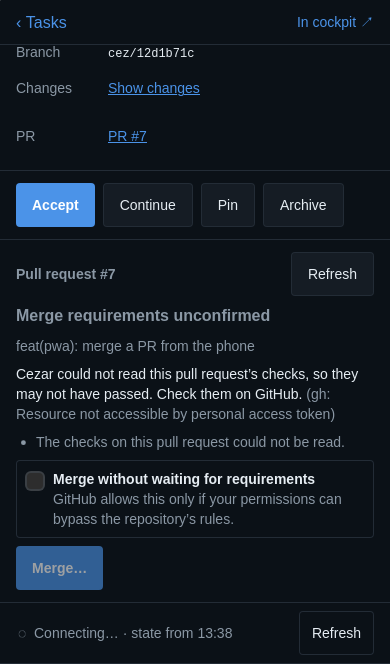
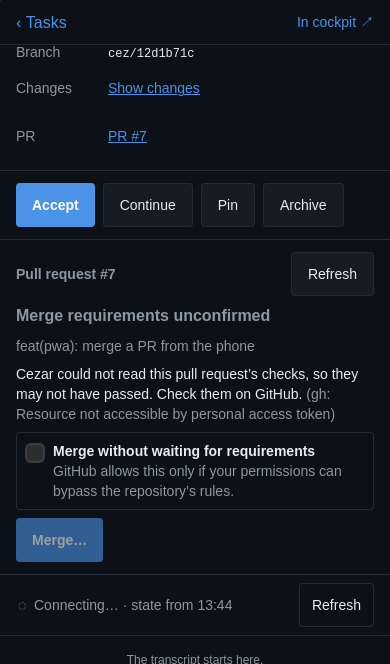
fix(pwa): don't repeat checks-unknown under the unread-checks line (#99)
With checksTier none the server also sends a checks-unknown blocker saying
the same thing; drop it from the listed blockers, as upstream GithubMergeBox
does. Align the fixture with the server's real message, assert no duplicate,
and refresh the unread-checks screenshots.

Changed region(s): [[0.0308, 0.6325, 0.8923, 0.9639], [0.0, 0.9036, 1.0, 1.0], [0.8, 0.9036, 0.9846, 0.9639]]

diff --git a/apps/pwa/src/domain/merge.ts b/apps/pwa/src/domain/merge.ts
@@ -49,7 +49,10 @@ export interface MergeView {
   checksTier: ChecksTier
   /** Why the tier degraded, verbatim; only kept when it did. */
   checksReason?: string
-  /** The server's reasons, in its order, verbatim (FR-032). */
+  /**
+   * The server's reasons, in its order, verbatim (FR-032). With `checksTier: 'none'` its
+   * `checks-unknown` is dropped: the checks line already says so, with the reason (as upstream).
+   */
   blockers: string[]
   methods: GithubMergeMethod[]
   defaultMethod: GithubMergeMethod | null
@@ -141,7 +144,9 @@ export function mergeView(raw: unknown): MergeView | null {
   const methods = Array.isArray(raw.methods) ? raw.methods.filter(isMethod) : []
   const defaultMethod = isMethod(raw.defaultMethod) && methods.includes(raw.defaultMethod) ? raw.defaultMethod : null
   const blockers = Array.isArray(raw.blockers)
-    ? raw.blockers.flatMap((blocker) => (isRecord(blocker) && typeof blocker.message === 'string' ? [blocker.message] : []))
+    ? raw.blockers.flatMap((blocker) =>
+        isRecord(blocker) && typeof blocker.message === 'string' && !(tier === 'none' && blocker.code === 'checks-unknown') ? [blocker.message] : [],
+      )
     : []
   const open = state === 'open'
   return {

diff --git a/apps/pwa/src/domain/merge.test.ts b/apps/pwa/src/domain/merge.test.ts
@@ -160,6 +160,17 @@ describe('checks tier (#99)', () => {
     expect(view({ checks: [], checksTier: 'none' })).toMatchObject({ headline: 'unknown', canMerge: true, canOverride: false })
     expect(view({ checks: [], checksTier: 'none', canMerge: false, canOverride: true })).toMatchObject({ canMerge: false, canOverride: true })
   })
+
+  it.each([
+    ['none: checks-unknown is not repeated under the checks line', 'none', ['A required review is missing.']],
+    ['detailed: every blocker, verbatim', 'detailed', ['This token cannot read the checks on this pull request.', 'A required review is missing.']],
+  ] as const)('%s', (_name, tier, expected) => {
+    const blockers = [
+      { code: 'checks-unknown', message: 'This token cannot read the checks on this pull request.' },
+      { code: 'reviews', message: 'A required review is missing.' },
+    ]
+    expect(view({ checks: [], checksTier: tier, canMerge: false, blockers })?.blockers).toEqual(expected)
+  })
 })
 
 describe('mergeGate — can merge, and the reason it cannot', () => {

diff --git a/apps/pwa/src/features/run/RunScreen.merge.test.tsx b/apps/pwa/src/features/run/RunScreen.merge.test.tsx
@@ -202,6 +202,8 @@ describe('the merge panel', () => {
     const line = box.getByText(t.checksUnread, { exact: false })
     expect(line).toHaveTextContent(t.checksTierReason(checksNoneFixture.mergeState.checksReason))
     expect(box.queryByText(t.noChecks)).toBeNull()
+    // The server's own `checks-unknown` blocker says the same thing; it is not shown twice.
+    expect(box.queryByText(checksNoneFixture.mergeState.blockers[0]!.message)).toBeNull()
     // canOverride: the bypass stays the server's to grant, exactly as with readable checks.
     expect(box.getByRole('button', { name: t.mergeButton })).toBeDisabled()
     expect(box.getByRole('checkbox', { name: new RegExp(t.override) })).toBeInTheDocument()

diff --git a/docs/CEZAR_API.md b/docs/CEZAR_API.md
@@ -267,7 +267,7 @@ Action on `permission.requested`: the answering mechanism is to be confirmed in 
 - **We offer a merge exactly when the server would accept it** (`mergeGate()`): `canMerge`, or `canOverride` after ticking "Merge without waiting for requirements" (then the body has `overrideRules: true`) — like `GithubMergeBox` in the cockpit (`web/src/routes/github/github.tsx`). On this host a private repo does not show branch protection rules (`required: null`, `reviewDecision: unknown`), so an open PR usually has `eligibility: unknown` and `canMerge: false` — without the override it could not be merged from either the cockpit or the phone.
 - The merge is behind a confirmation with the PR number and title and the target branch (brief R03); the method is chosen there from `methods` (default `defaultMethod`). The body carries `expectedHeadSha` = `headSha` from the state shown: the server rejects a push in the meantime (`stale-head`) instead of merging unseen commits.
 - **Never optimistically.** After every attempt (success, refusal, timeout) the state is read afresh with `refresh=1` and that is what is shown; we also invalidate `['run', …]`, the history and `['runs-index']`. 20 s timeout, no retries (the merge may have gone through). The refusal verbatim (FR-032). Draft → ready conversion, files, reviews and comments stay on GitHub (N06).
-- **How much of the checks were read (`checksTier`, 0.12.0, #99)** — `checksSummary()` in `domain/merge.ts`, mirroring `GithubMergeBox`. Absent or unknown → `detailed` (a pre-0.12 answer renders as before). `detailed`: "N of M checks passing", or "No checks reported." for an empty list. `aggregate` (a fine-grained PAT cannot read `CheckRun`s): the one row, named `All checks` upstream, is GitHub's rolled-up state, so the line says "Only the combined state of the checks could be read, not each check: <state>." and never "1 of 1". `aggregate` with **no** row is the rollup answering "this head has no CI" (`fetchMergeChecks`), so it reads "No checks reported.". `none`: "Cezar could not read this pull request's checks…", never "No checks reported."; `checksReason` follows verbatim in brackets for both degraded tiers. `none` also keeps the headline from reading "Ready to merge" (it reads "Merge requirements unconfirmed" unless a pending/blocked signal says more). `canMerge` / `canOverride` still decide the buttons unchanged.
+- **How much of the checks were read (`checksTier`, 0.12.0, #99)** — `checksSummary()` in `domain/merge.ts`, mirroring `GithubMergeBox`. Absent or unknown → `detailed` (a pre-0.12 answer renders as before). `detailed`: "N of M checks passing", or "No checks reported." for an empty list. `aggregate` (a fine-grained PAT cannot read `CheckRun`s): the one row, named `All checks` upstream, is GitHub's rolled-up state, so the line says "Only the combined state of the checks could be read, not each check: <state>." and never "1 of 1". `aggregate` with **no** row is the rollup answering "this head has no CI" (`fetchMergeChecks`), so it reads "No checks reported.". `none`: "Cezar could not read this pull request's checks…", never "No checks reported."; `checksReason` follows verbatim in brackets for both degraded tiers. `none` also keeps the headline from reading "Ready to merge" (it reads "Merge requirements unconfirmed" unless a pending/blocked signal says more). With `none` the server's own `checks-unknown` blocker ("This token cannot read the checks…") is not listed again under that line, as upstream `GithubMergeBox` does. `canMerge` / `canOverride` still decide the buttons unchanged.
 - Fixtures: `merge-state.live-0.12.0.json` (this repo's merged PR #97, from the host, `checksTier: detailed`), the hand-written `merge-state.json` (open, one check failing, one pending) and `merge-state.checks-none.json` (`checksTier: none` with a reason, override allowed), validated with `githubPrMergeStateResponseSchema`.
 
 ## 5. "Needs attention" — the notification rule
